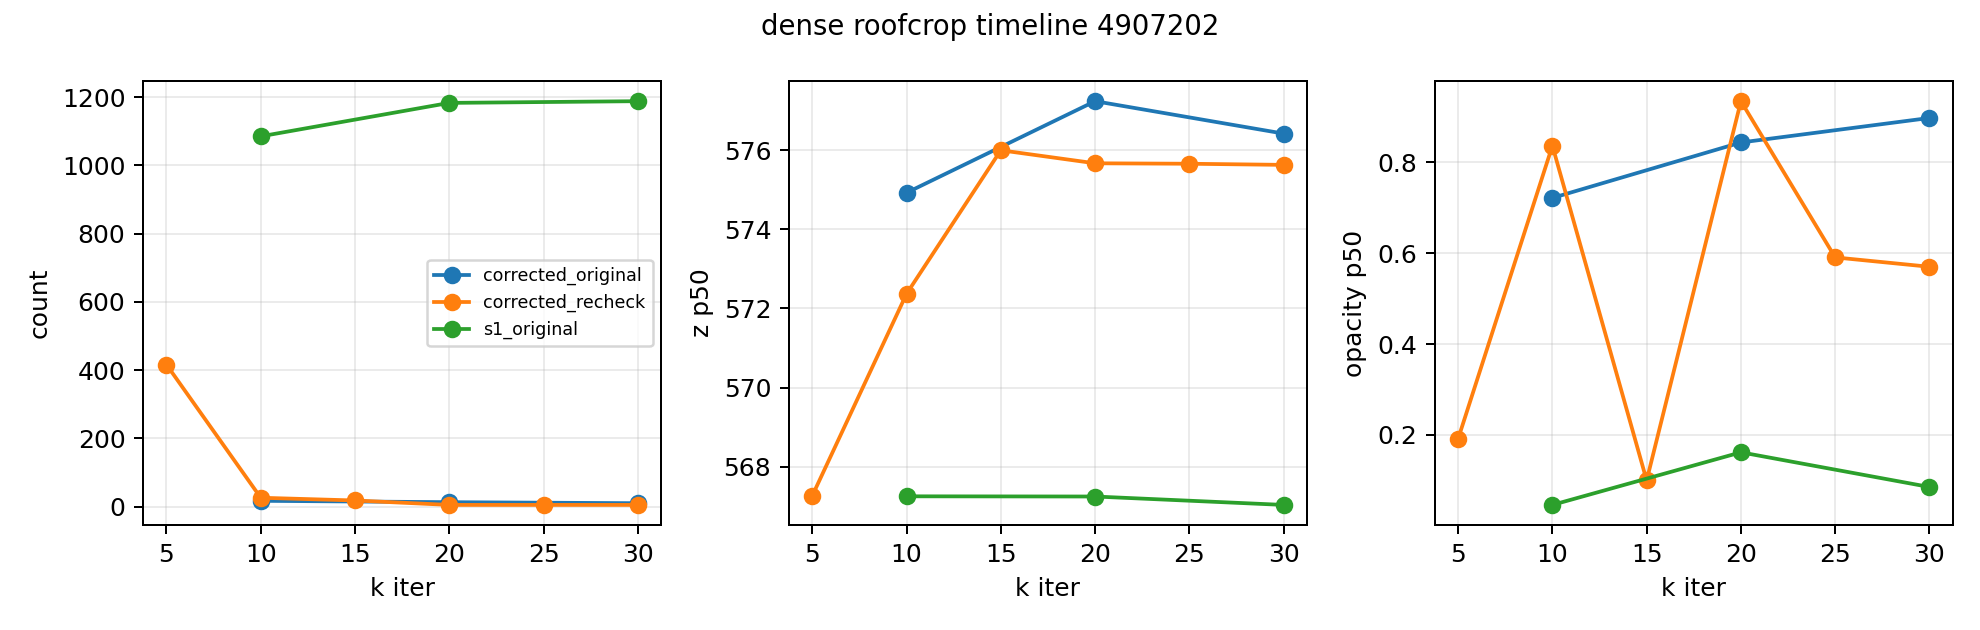
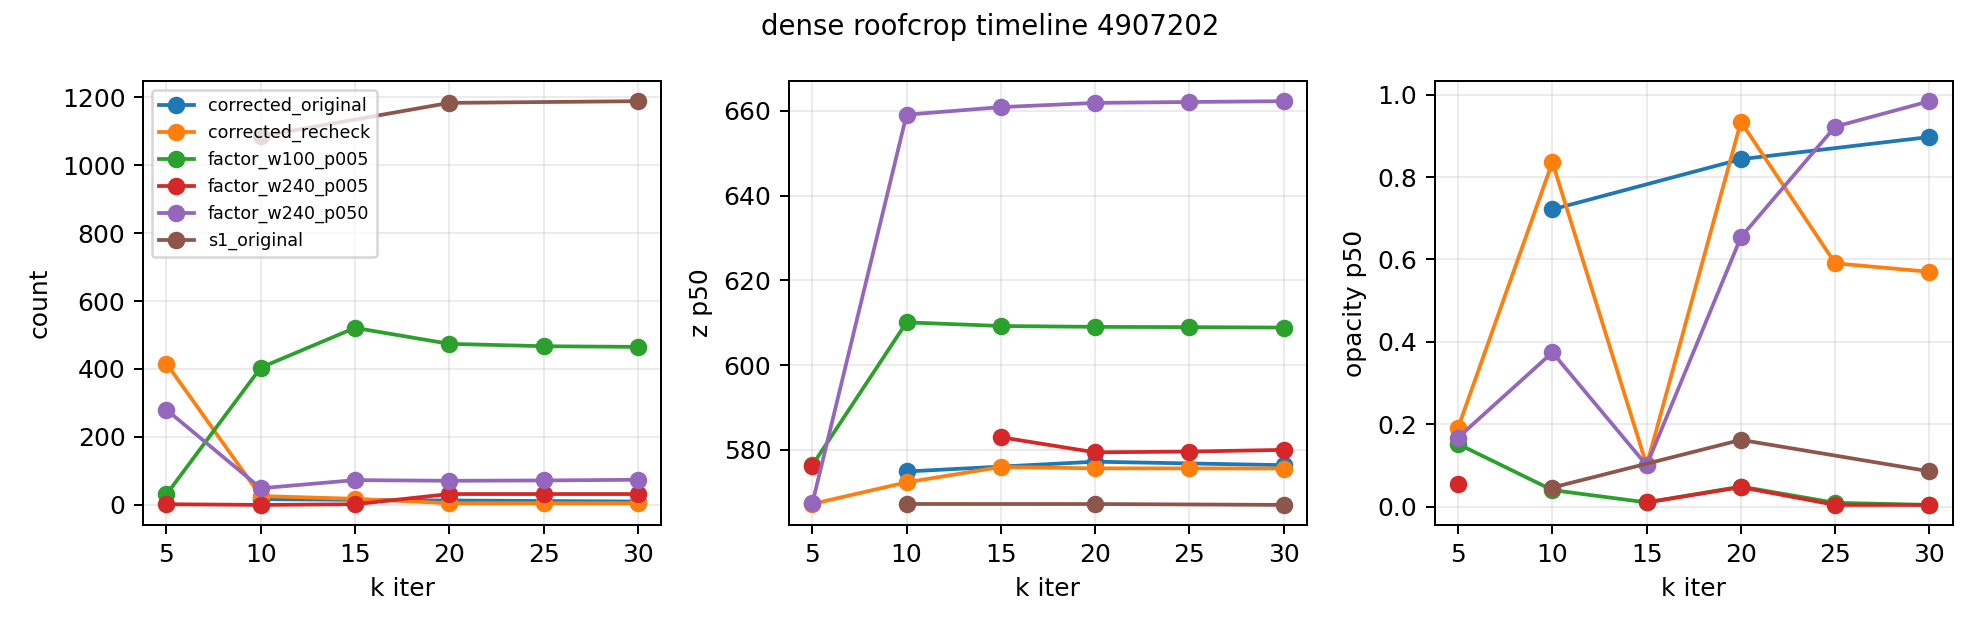
e5-s1-factor B-1: complete dense factor training

diff --git a/phases/p2-gsjso/scripts/e5_c001_s1_full_factor.py b/phases/p2-gsjso/scripts/e5_c001_s1_full_factor.py
@@ -720,7 +720,7 @@ def plot_timeline(rows: list[dict[str, Any]]) -> None:
     FIG_DIR.mkdir(parents=True, exist_ok=True)
     for sid in ["4907202", "4908178", "4908168", "4907184"]:
         bid = full_id(sid)
-        part = [r for r in rows if r.get("building_id") == bid and r.get("arm") == "dense" and r.get("family") in {"corrected_recheck", "corrected_original", "s1_original"}]
+        part = [r for r in rows if r.get("building_id") == bid and r.get("arm") == "dense"]
         if not part:
             continue
         fig, axes = plt.subplots(1, 3, figsize=(11.0, 3.5))
